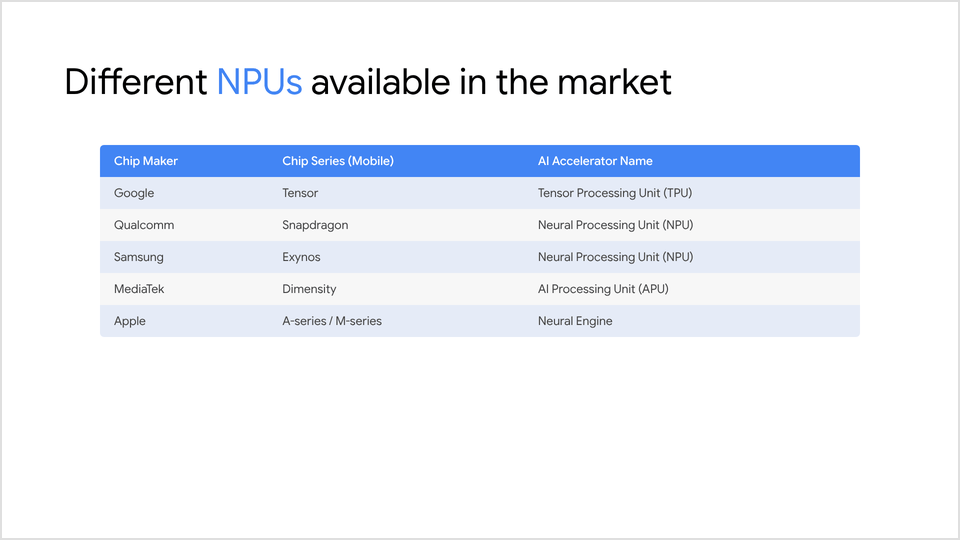
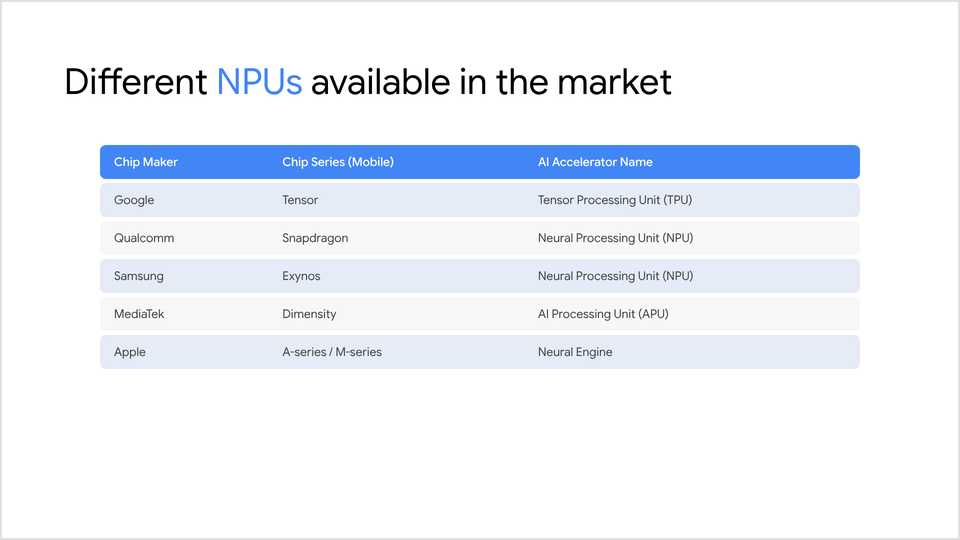
Round table rows and remaining square boxes
DataTable rows are now separate rounded bars with an 8px gap and
no borders. VersusSplit's green half is an inset rounded panel and
Timeline lines have rounded ends. Previews and DESIGN.md updated.

Claude-Session: https://claude.ai/code/session_01SdsZEhSAwvsHzT8snBEZXM

Changed region(s): [[0.0938, 0.2667, 0.9062, 0.6815]]

diff --git a/components/Timeline.html b/components/Timeline.html
@@ -22,9 +22,9 @@ A left-to-right sequence of 3–6 steps on a dashed line, for pipelines, setup f
 <div class="dr-stage"><div class="dr-slide">
 
 <span class="dr-tag">Model to App</span>
-<div style="position:absolute;left:200px;right:200px;top:539px;height:4px;background:repeating-linear-gradient(90deg,var(--card-border) 0 16px,transparent 16px 28px)"></div>
+<div style="position:absolute;left:200px;right:200px;top:539px;height:4px;border-radius:2px;background:repeating-linear-gradient(90deg,var(--card-border) 0 16px,transparent 16px 28px)"></div>
 <div style="position:absolute;left:160px;right:160px;top:300px;display:grid;grid-template-columns:repeat(5,1fr)">
-<div style="display:flex;flex-direction:column;align-items:center;text-align:center"><span class="dr-node" style="font-size:24px;">Step 1</span><div style="width:2px;height:120px;background:var(--card-border)"></div><div style="width:40px;height:40px;border-radius:50%;background:var(--green);border:0px solid var(--green)"></div><div style="font-size:30px;line-height:40px;font-weight:500;margin-top:48px">Pick a model</div><div style="font-size:24px;line-height:32px;color:var(--ink-muted);margin-top:12px;max-width:260px">Gemma 3 1B from Hugging Face</div></div><div style="display:flex;flex-direction:column;align-items:center;text-align:center"><span class="dr-node" style="font-size:24px;">Step 2</span><div style="width:2px;height:120px;background:var(--card-border)"></div><div style="width:40px;height:40px;border-radius:50%;background:var(--green);border:0px solid var(--green)"></div><div style="font-size:30px;line-height:40px;font-weight:500;margin-top:48px">Quantize</div><div style="font-size:24px;line-height:32px;color:var(--ink-muted);margin-top:12px;max-width:260px">INT8 / INT4 weights</div></div><div style="display:flex;flex-direction:column;align-items:center;text-align:center"><span class="dr-node" style="font-size:24px;">Step 3</span><div style="width:2px;height:120px;background:var(--card-border)"></div><div style="width:40px;height:40px;border-radius:50%;background:var(--green);border:0px solid var(--green)"></div><div style="font-size:30px;line-height:40px;font-weight:500;margin-top:48px">Convert</div><div style="font-size:24px;line-height:32px;color:var(--ink-muted);margin-top:12px;max-width:260px">Bundle into a .task file</div></div><div style="display:flex;flex-direction:column;align-items:center;text-align:center"><span class="dr-node" style="font-size:24px;">Step 4</span><div style="width:2px;height:120px;background:var(--card-border)"></div><div style="width:40px;height:40px;border-radius:50%;background:var(--green);border:0px solid var(--green)"></div><div style="font-size:30px;line-height:40px;font-weight:500;margin-top:48px">Push</div><div style="font-size:24px;line-height:32px;color:var(--ink-muted);margin-top:12px;max-width:260px">adb push to the device</div></div><div style="display:flex;flex-direction:column;align-items:center;text-align:center"><span class="dr-node" style="font-size:24px;background:var(--green);color:var(--on-green);">Step 5</span><div style="width:2px;height:120px;background:var(--card-border)"></div><div style="width:56px;height:56px;border-radius:50%;background:var(--lime);border:8px solid var(--green)"></div><div style="font-size:30px;line-height:40px;font-weight:500;margin-top:48px">Generate</div><div style="font-size:24px;line-height:32px;color:var(--ink-muted);margin-top:12px;max-width:260px">LlmInference on Android</div></div>
+<div style="display:flex;flex-direction:column;align-items:center;text-align:center"><span class="dr-node" style="font-size:24px;">Step 1</span><div style="width:2px;height:120px;border-radius:1px;background:var(--card-border)"></div><div style="width:40px;height:40px;border-radius:50%;background:var(--green);border:0px solid var(--green)"></div><div style="font-size:30px;line-height:40px;font-weight:500;margin-top:48px">Pick a model</div><div style="font-size:24px;line-height:32px;color:var(--ink-muted);margin-top:12px;max-width:260px">Gemma 3 1B from Hugging Face</div></div><div style="display:flex;flex-direction:column;align-items:center;text-align:center"><span class="dr-node" style="font-size:24px;">Step 2</span><div style="width:2px;height:120px;border-radius:1px;background:var(--card-border)"></div><div style="width:40px;height:40px;border-radius:50%;background:var(--green);border:0px solid var(--green)"></div><div style="font-size:30px;line-height:40px;font-weight:500;margin-top:48px">Quantize</div><div style="font-size:24px;line-height:32px;color:var(--ink-muted);margin-top:12px;max-width:260px">INT8 / INT4 weights</div></div><div style="display:flex;flex-direction:column;align-items:center;text-align:center"><span class="dr-node" style="font-size:24px;">Step 3</span><div style="width:2px;height:120px;border-radius:1px;background:var(--card-border)"></div><div style="width:40px;height:40px;border-radius:50%;background:var(--green);border:0px solid var(--green)"></div><div style="font-size:30px;line-height:40px;font-weight:500;margin-top:48px">Convert</div><div style="font-size:24px;line-height:32px;color:var(--ink-muted);margin-top:12px;max-width:260px">Bundle into a .task file</div></div><div style="display:flex;flex-direction:column;align-items:center;text-align:center"><span class="dr-node" style="font-size:24px;">Step 4</span><div style="width:2px;height:120px;border-radius:1px;background:var(--card-border)"></div><div style="width:40px;height:40px;border-radius:50%;background:var(--green);border:0px solid var(--green)"></div><div style="font-size:30px;line-height:40px;font-weight:500;margin-top:48px">Push</div><div style="font-size:24px;line-height:32px;color:var(--ink-muted);margin-top:12px;max-width:260px">adb push to the device</div></div><div style="display:flex;flex-direction:column;align-items:center;text-align:center"><span class="dr-node" style="font-size:24px;background:var(--green);color:var(--on-green);">Step 5</span><div style="width:2px;height:120px;border-radius:1px;background:var(--card-border)"></div><div style="width:56px;height:56px;border-radius:50%;background:var(--lime);border:8px solid var(--green)"></div><div style="font-size:30px;line-height:40px;font-weight:500;margin-top:48px">Generate</div><div style="font-size:24px;line-height:32px;color:var(--ink-muted);margin-top:12px;max-width:260px">LlmInference on Android</div></div>
 </div>
 
 </div></div>

diff --git a/components/VersusSplit.html b/components/VersusSplit.html
@@ -15,7 +15,7 @@ Two opposing ideas side by side: white half vs green half, with a lime "vs" disc
 
 **Consumer provides:** two short names (1–2 words), a one-line description each, and 1–3 trait badges each.
 
-- Left half `surface` with the name in `green` 120px/700; right half `green` with the name in `on-green`.
+- Left half `surface` with the name in `green` 120px/700; right half a `green` panel inset 24px from the edges with `radius-card` corners, name in `on-green`.
 - Descriptions 28px (`ink-muted` / `on-green`); traits as `dr-badge` (green-tint on white, lime on green).
 - 160px `lime` disc with "vs" in `on-lime`, centred on the seam.
 - Put the "good"/default side on the left (white), the problem/twist on the right (green).
@@ -27,7 +27,7 @@ Two opposing ideas side by side: white half vs green half, with a lime "vs" disc
 <div style="font-size:120px;line-height:1;font-weight:700;color:var(--green)">Stable</div>
 <div style="font-size:28px;color:var(--ink-muted);margin-top:28px">Primitives · String · data class with val</div>
 <div style="display:flex;gap:16px;margin-top:48px"><span class="dr-badge">Skippable</span><span class="dr-badge">Restartable</span></div></div>
-<div style="position:absolute;left:960px;top:0;width:960px;height:1080px;background:var(--green);display:flex;flex-direction:column;align-items:center;justify-content:center">
+<div style="position:absolute;left:984px;top:24px;width:912px;height:1032px;border-radius:32px;background:var(--green);display:flex;flex-direction:column;align-items:center;justify-content:center">
 <div style="font-size:120px;line-height:1;font-weight:700;color:var(--on-green)">UnStable</div>
 <div style="font-size:28px;color:var(--on-green);margin-top:28px">Interfaces · List · var properties</div>
 <div style="display:flex;gap:16px;margin-top:48px"><span class="dr-badge is-lime">Recomposes</span></div></div>

diff --git a/css/slides.css b/css/slides.css
@@ -87,12 +87,15 @@
 .dr-node.is-blue { border-radius: var(--radius-node); background: var(--blue-tint); color: var(--blue); }
 .dr-node.is-outline { background: var(--surface); border: 2px solid var(--ink-soft); color: var(--ink); }
 
-/* table */
-.dr-table { border-collapse: collapse; width: 100%; font-size: 24px; line-height: 32px; border-radius: var(--radius-node); overflow: hidden; }
-.dr-table th { background: var(--blue); color: var(--surface); font-weight: 500; text-align: left; padding: 16px 28px; }
-.dr-table td { padding: 16px 28px; color: var(--ink-soft); }
+/* table — separated rounded rows, no borders */
+.dr-table { border-collapse: separate; border-spacing: 0 8px; margin: -8px 0; width: 100%; font-size: 24px; line-height: 32px; }
+.dr-table th, .dr-table td { border: 0; padding: 18px 28px; }
+.dr-table th { background: var(--blue); color: var(--surface); font-weight: 500; text-align: left; }
+.dr-table td { color: var(--ink-soft); }
 .dr-table tr:nth-child(odd) td { background: var(--gray-row); }
 .dr-table tr:nth-child(even) td { background: var(--blue-row); }
+.dr-table tr > :first-child { border-radius: var(--radius-tile) 0 0 var(--radius-tile); }
+.dr-table tr > :last-child { border-radius: 0 var(--radius-tile) var(--radius-tile) 0; }
 
 /* ---- set 2: reusable additions ---- */
 /* inline lime chip inside running text (prompt variables, key terms) */

diff --git a/examples/deck.html b/examples/deck.html
@@ -75,7 +75,7 @@ html,body{margin:0;height:100%;background:#111;overflow:hidden}
 <div style="font-size:120px;line-height:1;font-weight:700;color:var(--green)">Stable</div>
 <div style="font-size:28px;color:var(--ink-muted);margin-top:28px">Primitives · String · data class with val</div>
 <div style="display:flex;gap:16px;margin-top:48px"><span class="dr-badge">Skippable</span><span class="dr-badge">Restartable</span></div></div>
-<div style="position:absolute;left:960px;top:0;width:960px;height:1080px;background:var(--green);display:flex;flex-direction:column;align-items:center;justify-content:center">
+<div style="position:absolute;left:984px;top:24px;width:912px;height:1032px;border-radius:32px;background:var(--green);display:flex;flex-direction:column;align-items:center;justify-content:center">
 <div style="font-size:120px;line-height:1;font-weight:700;color:var(--on-green)">UnStable</div>
 <div style="font-size:28px;color:var(--on-green);margin-top:28px">Interfaces · List · var properties</div>
 <div style="display:flex;gap:16px;margin-top:48px"><span class="dr-badge is-lime">Recomposes</span></div></div>

diff --git a/components/DataTable.html b/components/DataTable.html
@@ -15,7 +15,8 @@ Comparison tables with a blue header row and alternating gray/blue rows.
 
 **Consumer provides:** a header row and up to ~8 rows; keep cells short.
 
-- `dr-table`: header `blue` with white 24px/500 text; body rows alternate `gray-row` and `blue-row`, text `ink-soft` 24/32; corners `radius-node`; no vertical rules.
+- `dr-table`: every row is its own rounded bar (`radius-tile`) with an 8px gap between rows; no borders or rules anywhere.
+- Header row `blue` with white 24px/500 text; body rows alternate `gray-row` and `blue-row`, text `ink-soft` 24/32.
 - Small inline ✅ / 🟡 marks are fine in a "Result" column.
 - For results tied to a device, put the device label as a small `blue`/`green` caption to the left of the table.
 -->

diff --git a/DESIGN.md b/DESIGN.md
@@ -150,7 +150,7 @@ One family (`--font-sans`, Google Sans) plus `--font-mono` for code. Headlines a
 | `dr-code` (`is-s`) with `.ln .k .t .p .c` spans | Code block with line numbers + syntax colours |
 | `dr-disc`, `dr-numeral`, `dr-code-pill` | Numbered steps |
 | `dr-node` (`is-box`, `is-blue`, `is-outline`) | Diagram nodes |
-| `dr-table` | Blue-header striped table |
+| `dr-table` | Blue-header table of separated rounded rows |
 | `dr-chip` (`is-green`) | Small chip pinned top-right |
 | `dr-badge` (`is-green`, `is-lime`, `is-blue`, `is-muted`, `is-dark`) | Inline status/version badges |
 | `dr-ichip` (`is-green`) | Lime chip inside running text |
@@ -382,7 +382,8 @@ Comparison tables with a blue header row and alternating gray/blue rows.
 
 **Consumer provides:** a header row and up to ~8 rows; keep cells short.
 
-- `dr-table`: header `blue` with white 24px/500 text; body rows alternate `gray-row` and `blue-row`, text `ink-soft` 24/32; corners `radius-node`; no vertical rules.
+- `dr-table`: every row is its own rounded bar (`radius-tile`) with an 8px gap between rows; no borders or rules anywhere.
+- Header row `blue` with white 24px/500 text; body rows alternate `gray-row` and `blue-row`, text `ink-soft` 24/32.
 - Small inline ✅ / 🟡 marks are fine in a "Result" column.
 - For results tied to a device, put the device label as a small `blue`/`green` caption to the left of the table.
 
@@ -524,7 +525,7 @@ Two opposing ideas side by side: white half vs green half, with a lime "vs" disc
 
 **Consumer provides:** two short names (1–2 words), a one-line description each, and 1–3 trait badges each.
 
-- Left half `surface` with the name in `green` 120px/700; right half `green` with the name in `on-green`.
+- Left half `surface` with the name in `green` 120px/700; right half a `green` panel inset 24px from the edges with `radius-card` corners, name in `on-green`.
 - Descriptions 28px (`ink-muted` / `on-green`); traits as `dr-badge` (green-tint on white, lime on green).
 - 160px `lime` disc with "vs" in `on-lime`, centred on the seam.
 - Put the "good"/default side on the left (white), the problem/twist on the right (green).
